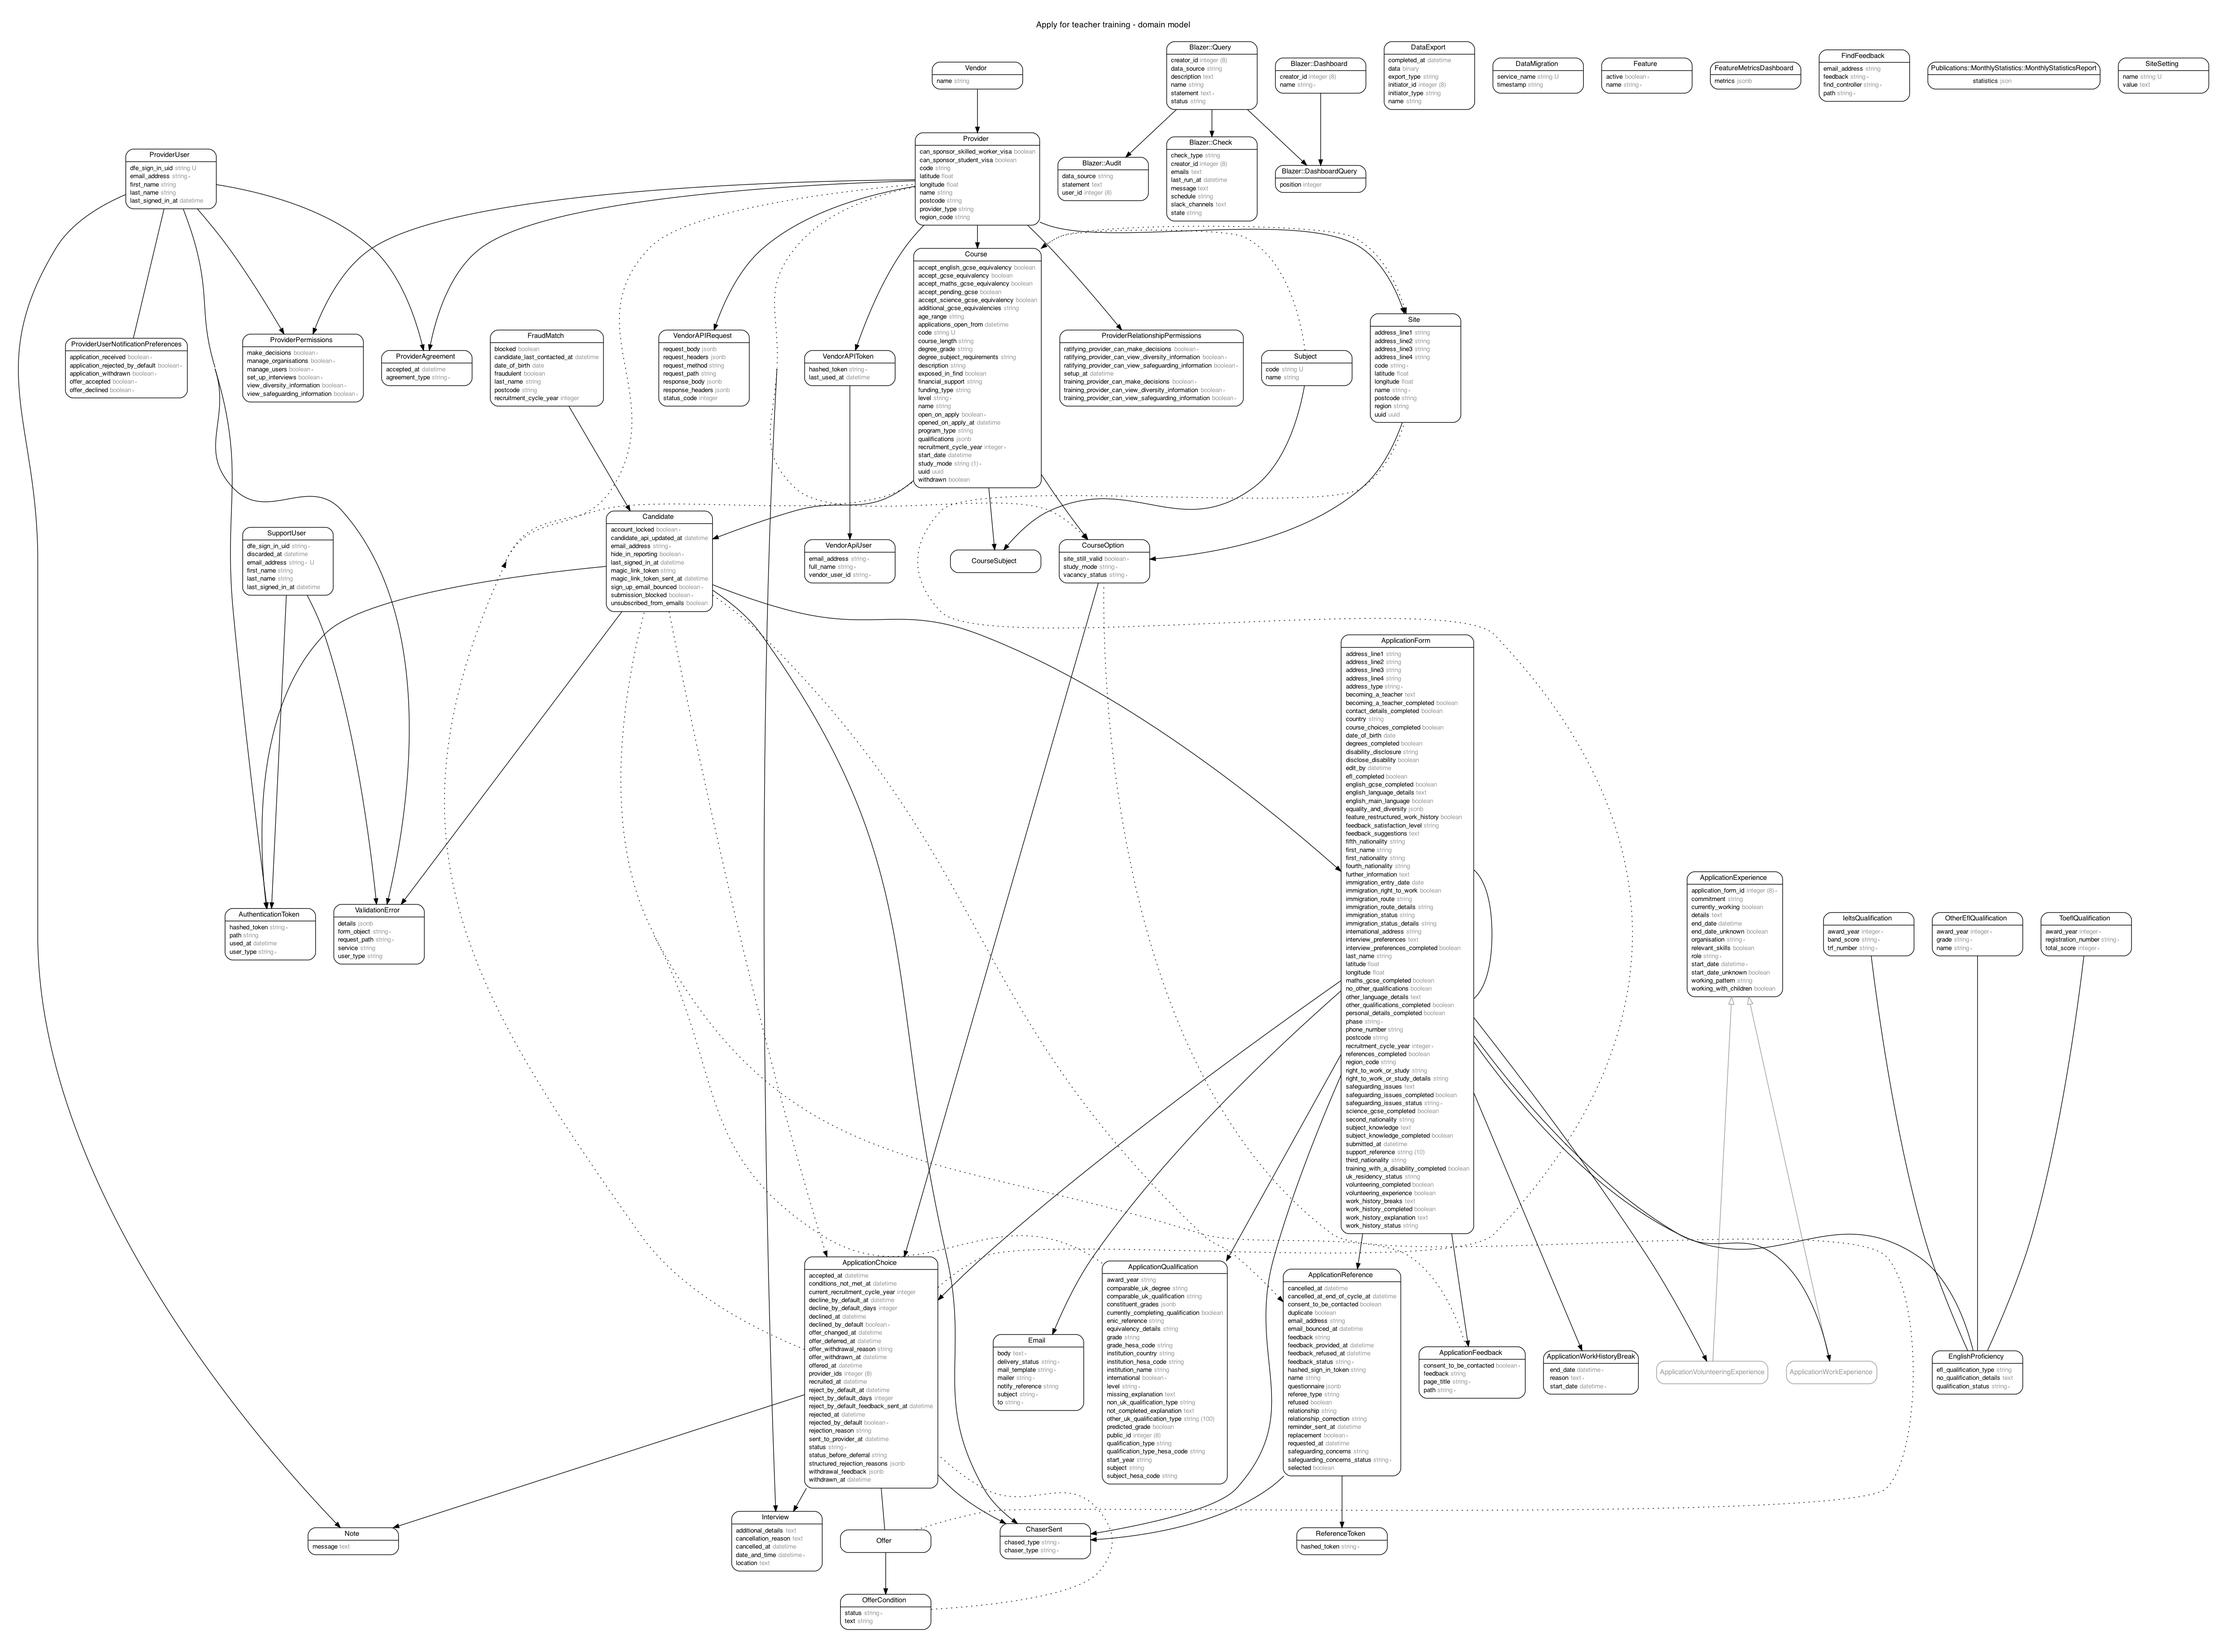
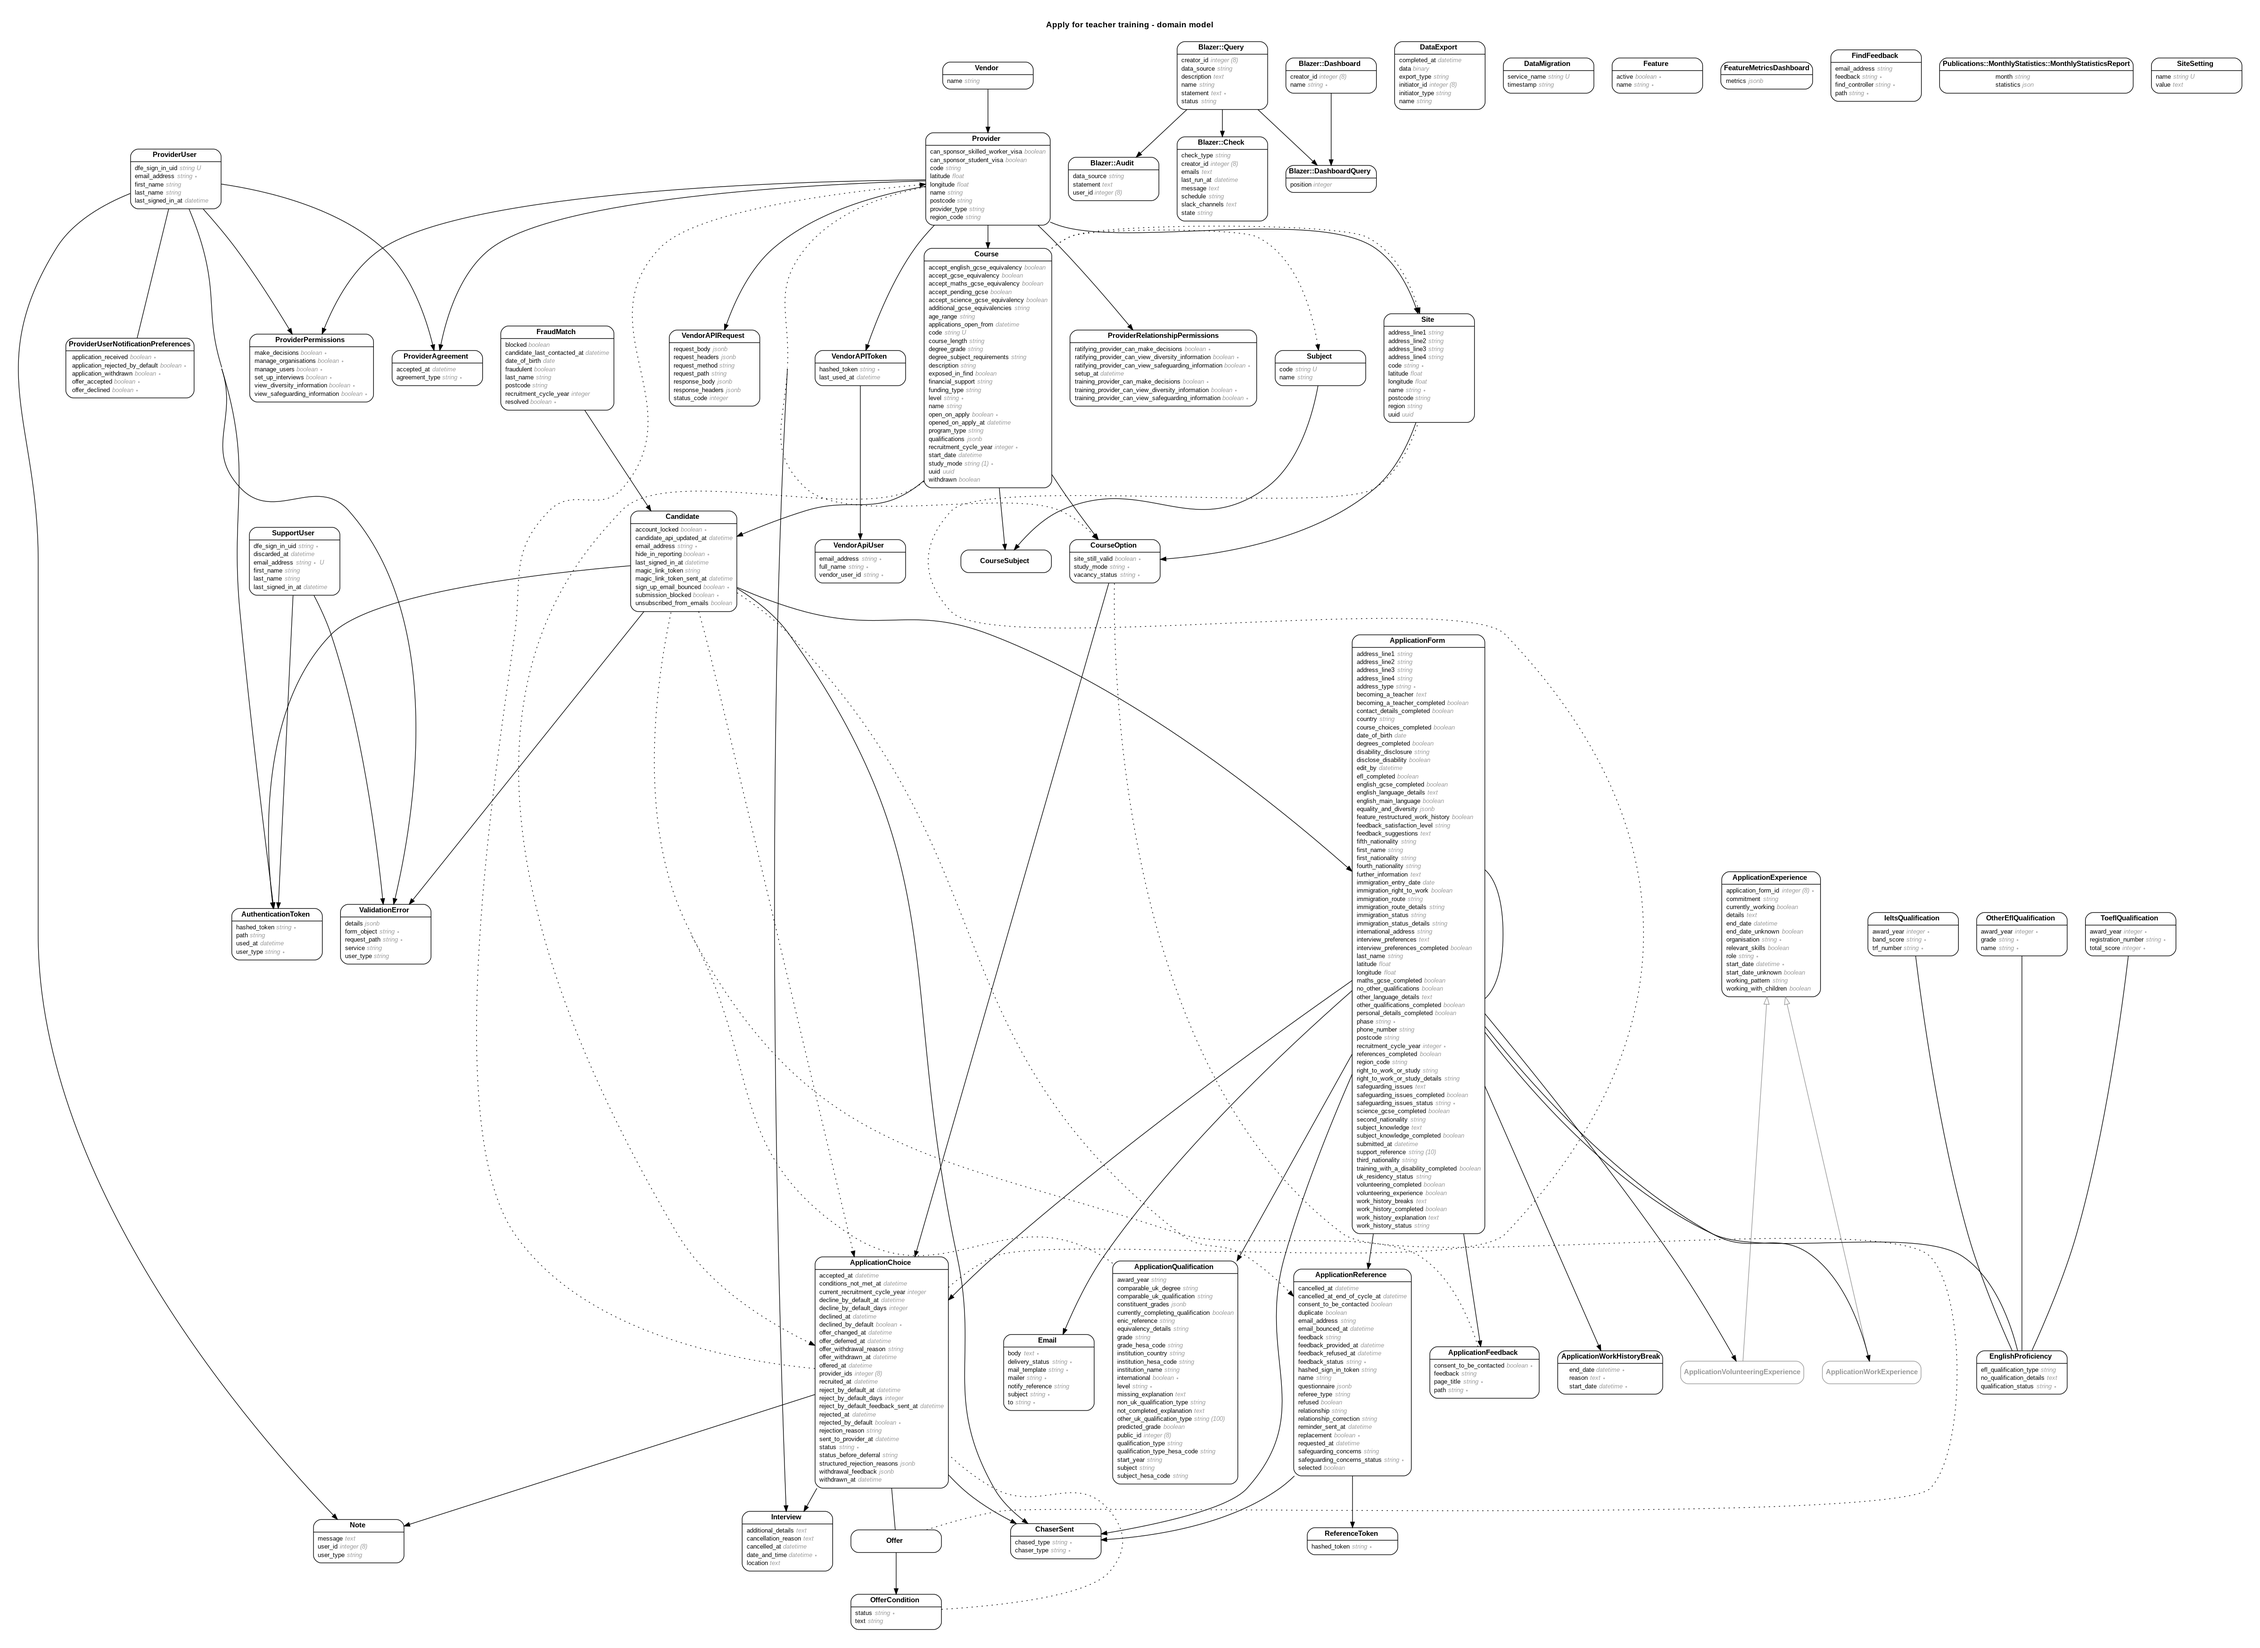
Add polymorphic user columns to notes
We will be associating VendorApiUsers and ProviderUsers with Notes.

diff --git a/db/schema.rb b/db/schema.rb
@@ -10,7 +10,7 @@
 #
 # It's strongly recommended that you check this file into your version control system.
 
-ActiveRecord::Schema.define(version: 2022_01_05_101802) do
+ActiveRecord::Schema.define(version: 2022_01_11_114219) do
 
   create_sequence "qualifications_public_id_seq", start: 120000
 
@@ -516,8 +516,11 @@ ActiveRecord::Schema.define(version: 2022_01_05_101802) do
     t.bigint "provider_user_id", null: false
     t.datetime "created_at", precision: 6, null: false
     t.datetime "updated_at", precision: 6, null: false
+    t.bigint "user_id"
+    t.string "user_type"
     t.index ["application_choice_id"], name: "index_notes_on_application_choice_id"
     t.index ["provider_user_id"], name: "index_notes_on_provider_user_id"
+    t.index ["user_id", "user_type"], name: "index_notes_on_user_id_and_user_type"
   end
 
   create_table "offer_conditions", force: :cascade do |t|

diff --git a/db/migrate/20220111114219_add_polymorphic_users_to_notes.rb b/db/migrate/20220111114219_add_polymorphic_users_to_notes.rb
@@ -1,0 +1,15 @@
+class AddPolymorphicUsersToNotes < ActiveRecord::Migration[6.1]
+  disable_ddl_transaction!
+
+  def up
+    add_column :notes, :user_id, :bigint
+    add_column :notes, :user_type, :string
+    add_index :notes, %i[user_id user_type], algorithm: :concurrently
+  end
+
+  def down
+    remove_column :notes, :user_id
+    remove_column :notes, :user_type
+    remove_index :notes, name: 'index_notes_on_user_id_and_user_type'
+  end
+end
